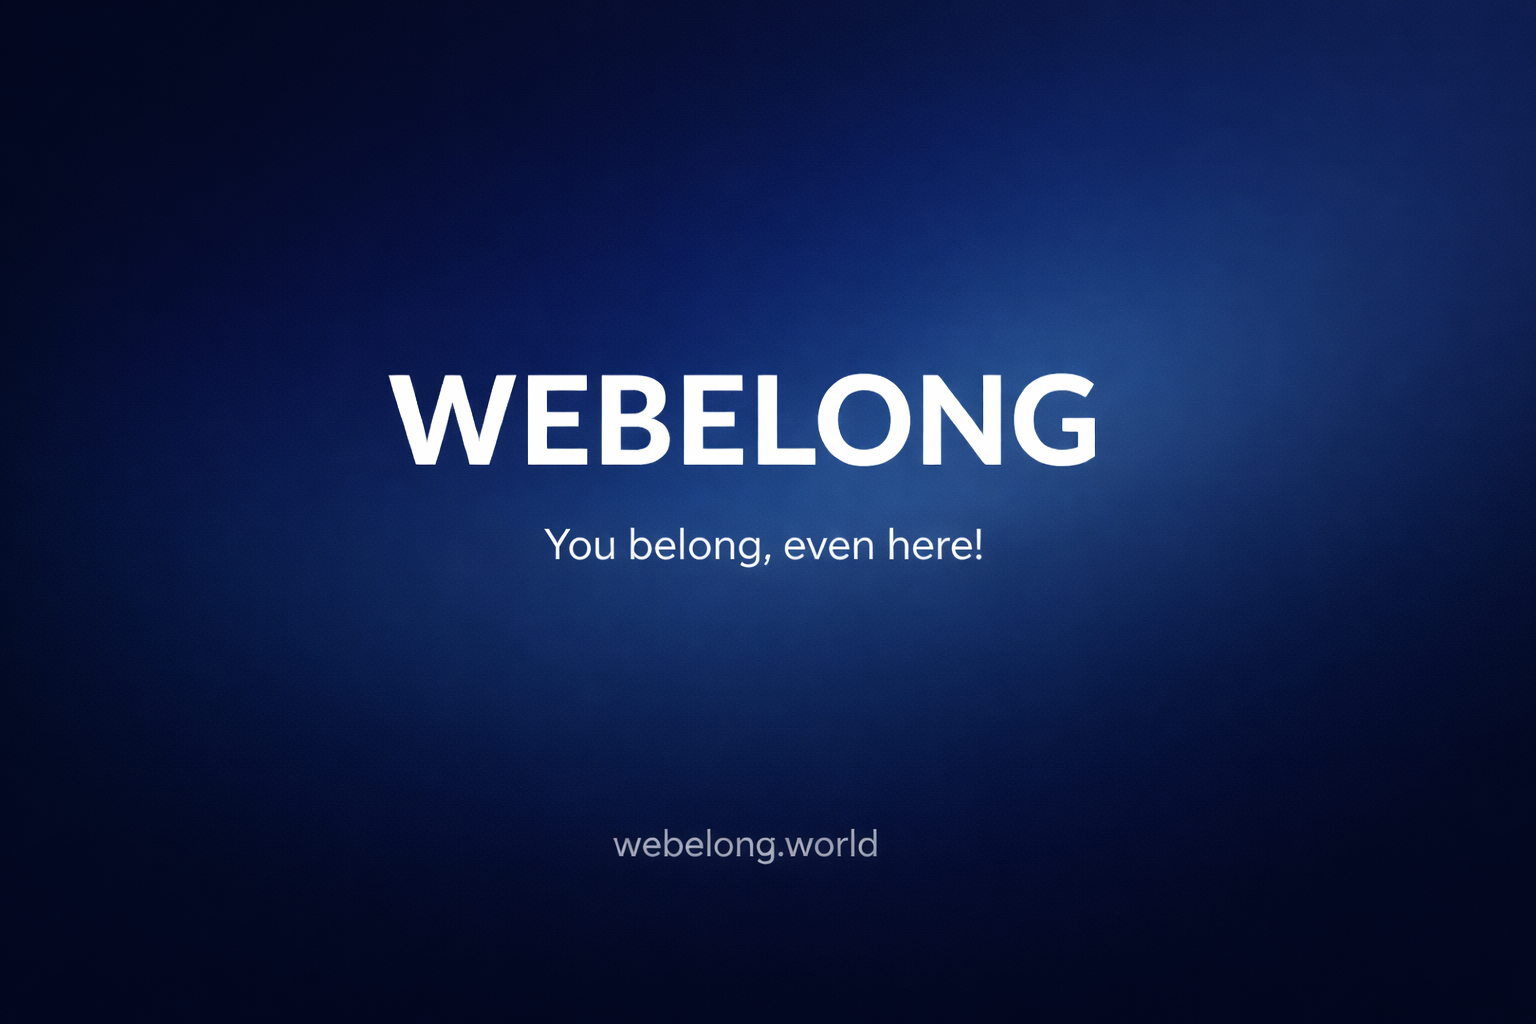
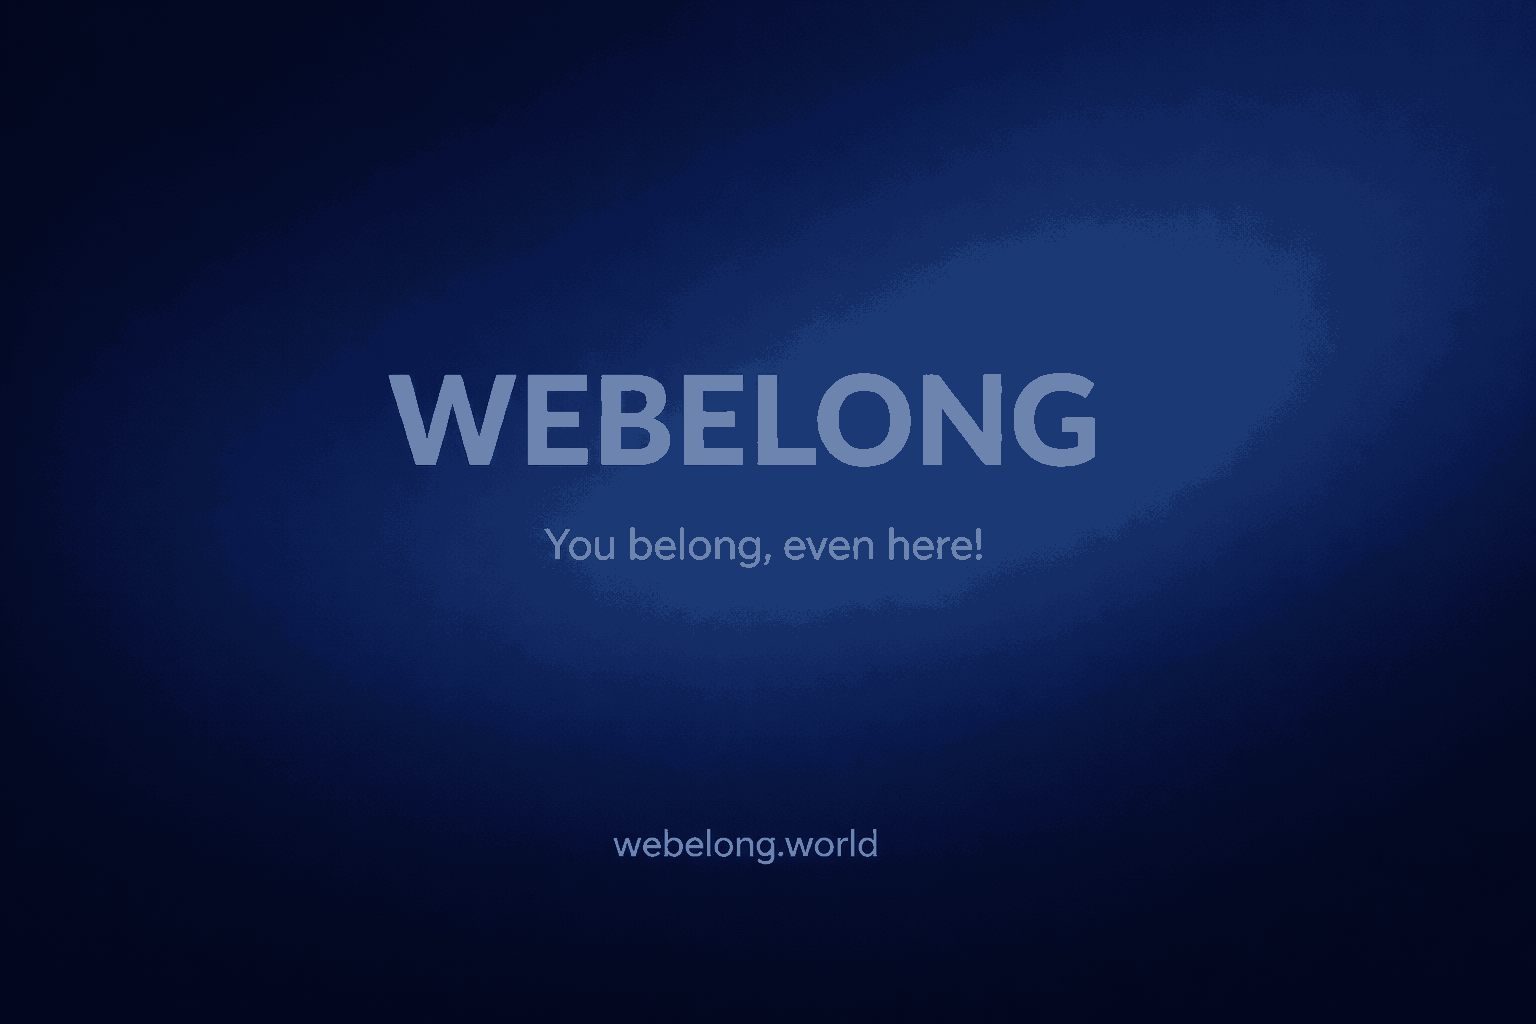
chore: Simplify metadata titles and descriptions and update the Open Graph image.

Changed region(s): [[0.25, 0.3438, 0.7188, 0.5625], [0.4062, 0.8125, 0.5938, 0.8438], [0.3438, 0.5, 0.375, 0.5312]]

diff --git a/apps/frontend/src/app/layout.tsx b/apps/frontend/src/app/layout.tsx
@@ -15,11 +15,11 @@ const BASE_URL = process.env.NEXT_PUBLIC_SITE_URL || 'https://webelong.world'
 export const metadata: Metadata = {
   metadataBase: new URL('https://webelong.world'),
   title: {
-    default: 'Webelong — You belong. Even here.',
+    default: 'Webelong',
     template: '%s — Webelong',
   },
   description:
-    'Webelong is a belonging-first social platform designed for emotional safety, honest expression, and human connection.',
+    'You belong, even here!',
   keywords: [
     'mental health',
     'belonging',
@@ -32,9 +32,9 @@ export const metadata: Metadata = {
     canonical: '/',
   },
   openGraph: {
-    title: 'Webelong — You belong. Even here.',
+    title: 'Webelong',
     description:
-      'A belonging-first social platform for emotional safety and real human connection.',
+      'You belong, even here!',
     url: BASE_URL,
     siteName: 'Webelong',
     images: [
@@ -49,9 +49,9 @@ export const metadata: Metadata = {
   },
   twitter: {
     card: 'summary_large_image',
-    title: 'Webelong — You belong. Even here.',
+    title: 'Webelong',
     description:
-      'A belonging-first social platform for emotional safety and human connection.',
+      'You belong, even here!',
     images: ['/og.png'],
   },
   icons: {
